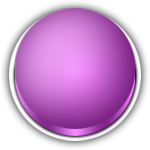
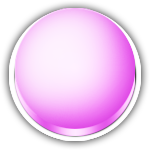
Changed color of button pink

diff --git a/Assets/Scripts/SessionManager.cs b/Assets/Scripts/SessionManager.cs
@@ -274,12 +274,12 @@ public class SessionManager : MonoBehaviour {
 
 			if(scoreSum > actualScore){
 				this.score.text = scoreSum.ToString ();
-				//TODO - Call the score animation and sound to earn points
+				//Call the score animation and sound to earn points
 				this.getPoint.Play();
 			}
 			else if(scoreSum < actualScore){
 				this.score.text = scoreSum.ToString ();
-				//TODO - Call the score animation and sound to lose points
+				//Call the score animation and sound to lose points
 				this.losePoint.Play();
 			}
 				
